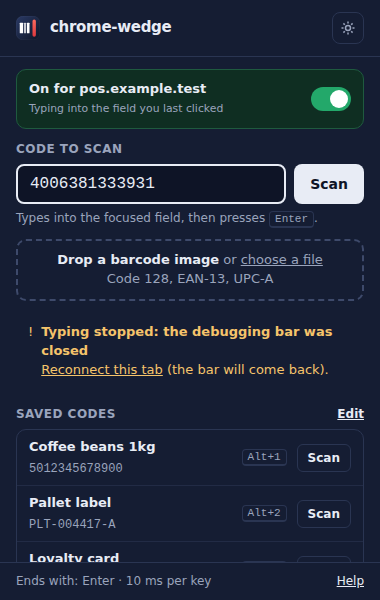
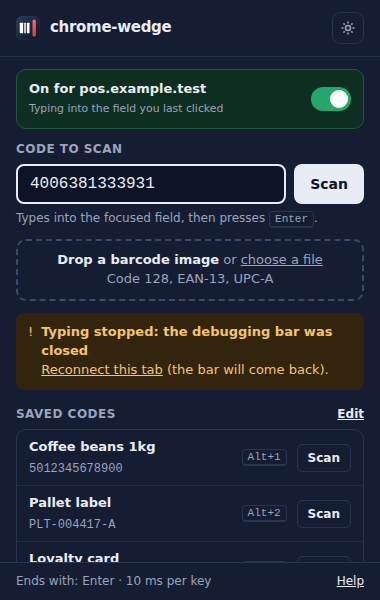
design: S01 no-field state: on a site the user has switched on, when no editable

Changed region(s): [[0.0289, 0.51, 0.9553, 0.66]]

diff --git a/design/system.md b/design/system.md
@@ -1,7 +1,7 @@
 # chrome-wedge — System design
 
 ## Overview
-chrome-wedge is a free Chrome extension for developers and testers who work on barcode-driven web apps such as point of sale, warehouse and inventory systems. Type a code or drop a barcode image, and it arrives in the field you clicked as real keystrokes followed by Enter, just like a hardware barcode scanner. You switch it on per site, it types only into the focused field of that tab, and it never types into password fields. Save the codes you use often and send them with one click or a keyboard shortcut.
+chrome-wedge is a free Chrome extension for developers and testers who work on barcode-driven web apps such as point of sale, warehouse and inventory systems. Type a code or drop a barcode image, and it arrives in the field you clicked as real keystrokes followed by Enter, just like a hardware barcode scanner. You switch it on per site, it types only into that tab (the focused field, or the page itself when nothing is focused), and it never types into password fields. Save the codes you use often and send them with one click or a keyboard shortcut.
 
 ## Stack
 | Layer | Choice | Reason |
@@ -29,12 +29,12 @@ Permissions: `debugger`, `storage`, `activeTab`. No host permissions and no cont
   - `hosts.ts`: normalise and validate `host[:port]`, match a URL against allowed sites.
   - `keymap.ts`: one character → CDP key event parameters (`key`, `code`, `windowsVirtualKeyCode`, `text`, shift modifier) for printable ASCII; other characters are sent with `key`/`text` only. Enter and Tab keys.
   - `scanPlan.ts`: prefix + value + suffix + key delay → ordered list of key events and waits.
-  - `focusProbe.ts`: a function that runs in the page (serialised with `Function.prototype.toString`) and reports the focused element: `editable` (with label from `<label>`, `aria-label`, `placeholder`, else "the focused field"), `password`, or `none`. Descends into same-origin iframes and shadow roots; a focused cross-origin iframe reports `none`.
+  - `focusProbe.ts`: a function that runs in the page (serialised with `Function.prototype.toString`) and reports the focused element: `editable` (with label from `<label>`, `aria-label`, `placeholder`, else "the focused field"), `password`, `none` (nothing editable focused: the scan goes to `document.body`), or `unreachable` (focus is inside a cross-origin iframe). Descends into same-origin iframes and shadow roots.
   - `decode.ts`: RGBA pixels → `{format, value}` or `unreadable`; tries the default format alone first, then all three.
   - `messages.ts`: typed popup ↔ service worker messages and scan results.
 - **`src/background/`** (service worker):
   - `session.ts`: attach/detach per tab, `Emulation.setFocusEmulationEnabled` so the page keeps its focused field while the popup is open, tab state in `chrome.storage.session`, `chrome.debugger.onDetach` (user closed the bar → state `detached`), main-frame navigation guard (navigated to a host that is not allowed → detach), allowed-site removal → detach tabs on that host.
-  - `scan.ts`: check site allowed (reads `location.host` through the session) → run focus probe → refuse/none or dispatch the scan plan → result. One scan at a time per tab.
+  - `scan.ts`: check site allowed (reads `location.host` through the session) → run focus probe → `password` refuses, `unreachable` gives no-field, `none` focuses nothing and dispatches to the page, `editable` dispatches to the field → result. One scan at a time per tab.
   - `shortcuts.ts`: on attach, installs a capture-phase `keydown` listener for Alt+1..Alt+9 (matched by `event.code`, so it works on macOS where Alt+digit types a symbol) via `Runtime.addBinding` + `Page.addScriptToEvaluateOnNewDocument`; `Runtime.bindingCalled` → scan the saved code with that shortcut. Only exists on switched-on tabs.
   - `install.ts`: opens S02 on install.
 - **`src/popup/`** (S01): site switch, code input, Scan, drop zone and file picker, saved codes, result line, footer. Converts a dropped image to pixels on a canvas and calls `decode.ts`.
@@ -61,15 +61,15 @@ Scan values: 1–256 characters, no line breaks (the suffix provides the Enter).
 
 `chrome.storage.session` key `tabs`: `{ [tabId]: { host: string; state: "attached" | "detached"; lastResult?: ScanResult } }`.
 
-`ScanResult`: `{ kind: "sent", value, keys, suffix, fieldLabel } | { kind: "refused" } | { kind: "no-field" } | { kind: "site-off" } | { kind: "detached" } | { kind: "error", message }`. These map one to one to the S01 states.
+`ScanResult`: `{ kind: "sent", value, keys, suffix, fieldLabel: string | null } | { kind: "refused" } | { kind: "no-field" } | { kind: "site-off" } | { kind: "detached" } | { kind: "error", message }`. These map one to one to the S01 states; a `null` `fieldLabel` means the scan went to the page (S01 page).
 
 ## Key flows
 1. **Switch on and scan (typed)**
    1. Popup opens; `activeTab` gives the tab's URL; popup asks the worker for the tab state and shows S01 (site off, on, or detached).
    2. Switch on → worker adds the host to `allowedSites`, `chrome.debugger.attach({tabId}, "1.3")`, enables focus emulation, installs the shortcut listener. Chrome shows its bar. If `firstRunDone` is false, S02 opens in a new tab.
    3. User clicks a field on the page, reopens the popup, types a code, presses Enter.
-   4. Worker: tab attached and `location.host` allowed? → focus probe → `password` gives *refused*, `none` gives *no-field* → otherwise for each key: `keyDown` (with `text`) then `keyUp`, waiting `keyDelayMs` between keys, then the suffix key.
-   5. Result is stored on the tab and returned; S01 shows "Scanned <code>: N keys + Enter into "<label>"".
+   4. Worker: tab attached and `location.host` allowed? → focus probe → `password` gives *refused*, `unreachable` (cross-origin iframe) gives *no-field* → otherwise (`editable`, or `none`, where keys land on `document.body` and bubble to `document` and `window`) for each key: `keyDown` (with `text`) then `keyUp`, waiting `keyDelayMs` between keys, then the suffix key.
+   5. Result is stored on the tab and returned; S01 shows "Scanned <code>: N keys + Enter into "<label>"", or "… into the page (no focused field)" when nothing was focused.
 2. **Image scan**: drop or pick a PNG/JPEG/WebP → `createImageBitmap` → canvas → pixels → `decode.ts` with the default format first → value fills the input with the thumbnail (S01 image-decoded) or S01 unreadable. Nothing is sent until Scan, which follows flow 1 from step 4.
 3. **Saved code by shortcut**: on the switched-on tab the page listener sees Alt+N, calls the binding; the worker looks up the saved code with shortcut N and runs flow 1 from step 4. Page keys outside switched-on tabs are never observed.
 4. **Bar closed**: `onDetach` with reason `canceled_by_user` → tab state `detached` → S01 detached; Reconnect this tab re-runs the attach in flow 1 step 2.
@@ -79,11 +79,11 @@ The reference paid extension's listing could not be fetched while writing this d
 
 ## Testing approach
 - `npm run format:check` (`prettier --check .`), `npm run typecheck` (`tsc --noEmit`), `npm test` (Vitest, unit, with coverage: aim for 90% on `src/core/`).
-- `npm run build` then `npm run e2e` (Playwright, Chromium with `dist/` loaded): a fixture page under `e2e/fixtures/` records every `keydown` with `isTrusted`, `key` and the field value. Checks: typed scan arrives trusted, ending with Enter; prefix and Tab/none suffix; password field refused and unchanged; no focused field gives no-field; a site not switched on is untouched; navigation to another host detaches; Alt+1 sends saved code 1.
+- `npm run build` then `npm run e2e` (Playwright, Chromium with `dist/` loaded): a fixture page under `e2e/fixtures/` records every `keydown` with `isTrusted`, `key` and the field value. Checks: typed scan arrives trusted, ending with Enter; prefix and Tab/none suffix; password field refused and unchanged; with nothing focused, a `document` `keydown` listener receives the scan as `isTrusted` keys ending with Enter and the result says "into the page"; a field inside a cross-origin iframe gives no-field; a site not switched on is untouched; navigation to another host detaches; Alt+1 sends saved code 1.
 - Decoder fixtures: Code 128, EAN-13 and UPC-A PNGs (clean, scaled, rotated slightly, low contrast) plus non-barcode images in `test/fixtures/barcodes/`, generated once by a script with `bwip-js` (dev dependency) and committed.
 - Things the sandbox cannot check (the bar's appearance, closing it by hand) are checked by hand from the README's manual checklist.
 
 ## Open questions
 - Linux Chrome uses Alt+1..Alt+8 to switch tabs. If Chrome handles those before the page sees them, saved-code shortcuts on Linux need a second binding (Alt+Shift+1..9). The shortcuts ticket checks this and reports.
 - The name contains "Chrome", which Web Store branding rules discourage; a rename before publishing only changes strings and the wordmark.
-- Typing into a focused cross-origin iframe is not supported in this version (reported as no field).
+- Typing into a focused cross-origin iframe is not supported in this version (reported as no field). With nothing focused, scans go to the page.

diff --git a/design/ux.md b/design/ux.md
@@ -2,7 +2,7 @@
 
 ## Users and primary jobs
 Developers and QA testing barcode-driven web apps (point of sale, warehouse, inventory) without a hardware scanner.
-1. Send a code into the focused field as real keystrokes plus Enter, as a keyboard-wedge scanner would.
+1. Send a code into the focused field (or the page, when nothing is focused) as real keystrokes plus Enter, as a keyboard-wedge scanner would.
 2. Turn a barcode image (label photo, test fixture) into a scan.
 3. Re-send the same handful of test codes quickly.
 
@@ -15,11 +15,12 @@ Developers and QA testing barcode-driven web apps (point of sale, warehouse, inv
 1. **First scan**: install → S02 opens → Got it → on the test site, open S01 → switch on (site allowed, debugger attaches, Chrome's bar appears) → click the field on the page → reopen S01, type a code, Enter → result line confirms.
 2. **Image scan**: S01 → drop image → decoded value fills the input (S01 image-decoded) → Scan. Unreadable image shows S01 unreadable.
 3. **Saved code**: S01 → Scan beside a saved code, or press its shortcut on the page. Manage codes in S03.
-4. **Blocked scan**: password field focused → S01 refused; nothing focused → S01 no-field; site off → S01 site-off (controls disabled).
-5. **Bar closed**: user closes Chrome's debugging bar → S01 detached → Reconnect this tab.
-6. **Settings**: S01 gear → S03; changes save immediately.
+4. **Nothing focused**: on a switched-on site with no field focused, S01 → Scan → the keys go to the page itself, where app-wide scanner listeners pick them up → S01 page ("into the page (no focused field)").
+5. **Blocked scan**: password field focused → S01 refused; focused field inside a frame from another site → S01 no-field; site off → S01 site-off (controls disabled).
+6. **Bar closed**: user closes Chrome's debugging bar → S01 detached → Reconnect this tab.
+7. **Settings**: S01 gear → S03; changes save immediately.
 
-Rules: a scan is only sent to the focused editable element of the tab the user switched on, on an allowed site, and never to `input[type=password]`. Nothing is sent from an image until the user presses Scan.
+Rules: a scan is only sent to the tab the user switched on, on an allowed site: into the focused editable element, or, when nothing editable is focused, to the page itself (`document.body`, so keys bubble to `document` and `window`). It is never sent when `input[type=password]` is focused, and not when focus is inside a cross-origin iframe (reported as no field). Nothing is sent from an image until the user presses Scan.
 
 ## Design system
 **Theme**: dark only. Every screen (popup, welcome, settings) uses the same dark palette; it sits naturally beside Chrome's dark toolbar and keeps the red cursor as the one bright accent. Buttons are light, not red, so red never competes with the mark or reads as an error.
@@ -38,7 +39,7 @@ Rules: a scan is only sent to the focused editable element of the tab the user s
 | primary | #E8ECF5 fill, #0E1426 text (15:1); hover #FFFFFF | primary buttons |
 | focus | #FF6B5E | 2px focus ring |
 | success | #6EE0A6 on #0F2E22 (edge #1F5A3F) | sent, site on; switch on #23A86A |
-| warning | #F5C46B on #33250D | no field, detached |
+| warning | #F5C46B on #33250D | no field (cross-origin frame), detached |
 | error | #FF9A9C on #3A1619 | refused, unreadable, Remove/Delete links |
 | disabled | #6B7591 text on #2A3552 (primary button) | site off |
 

diff --git a/design/screens/S01-popup/spec.md b/design/screens/S01-popup/spec.md
@@ -19,13 +19,15 @@ size: 380x600
 - Site off (`states/site-off.html`): input, Scan and saved-code buttons disabled until the switch is on.
 - Image decoded (`states/image-decoded.html`): thumbnail, format found, value, file name.
 - Unreadable image (`states/unreadable.html`): no barcode found; suggests a sharper image; notes QR isn't supported yet.
+- Sent to the page (`states/page.html`): nothing editable is focused, so the keys go to the page itself (`document.body`; they bubble to `document` and `window`, where scanner listeners usually sit). "Scanned <code>: N keys + Enter into the page (no focused field)". Green, `role="status"`, like any sent scan.
 - Refused (`states/refused.html`): focused field is a password field; nothing sent.
-- No field (`states/no-field.html`): nothing editable is focused on the page; nothing sent.
+- No field (`states/no-field.html`): focus is inside a frame from another site (cross-origin iframe), which can't be reached; nothing sent. "Not sent: that field is in a frame from another site" / "Click a field in the page itself, then scan again."
 - Detached (`states/detached.html`): the debugging bar was closed or cancelled; "Reconnect this tab" re-attaches.
 - Loading: while typing, the Scan button reads "Typing…" and is disabled (no separate file; long codes at 10 ms take well under a second).
 
 ## Notes and open questions
 - Popup max height in Chrome is 600px, so the layout fits 380x600 with three saved codes; more codes scroll inside the list.
+- Nothing focused is a success, not a problem: many scanner-driven apps listen for keys on the whole page rather than in a field, and a hardware scanner would type into the page too. The wording "(no focused field)" still tells you where the keys went, in case you meant to click a field first.
 - The field label in the success line comes from the field's label, aria-label or placeholder; falls back to "the focused field".
 - Saved-code shortcuts must work while the page (not the popup) is focused. Whether Alt+1..9 is feasible (chrome.commands allows few defaults) is for the architecture; fallback is fewer shortcuts set in chrome://extensions/shortcuts.
 
@@ -34,3 +36,4 @@ size: 380x600
 - Header mark updated to the modernised logo (rounded bars, gradient tile, glowing cursor), as requested in review.
 - Dark theme throughout (all states), header wordmark set like the logo, header mark synced with mark.svg; requested in review.
 - Primary button changed from red to a light fill with ink text, so red stays on the logo's cursor only; requested in review.
+- Nothing focused now sends the scan to the page (new `states/page.html`); `states/no-field.html` now covers only a field inside a cross-origin frame; warning background fixed to #33250D in every state (it was an invalid colour); requested in a ticket.

diff --git a/design/guide.md b/design/guide.md
@@ -14,6 +14,7 @@
 2. Click the chrome-wedge icon. The code box is ready for typing (S01).
 3. Type the code and press Enter or **Scan**. It's typed into the field, followed by Enter, and a green line confirms what was sent (S01).
 4. The popup stays open, so you can type the next code straight away.
+5. If your app listens for scans anywhere on the page rather than in a field, you don't need to click anything: scan, and the green line says it went "into the page (no focused field)" (S01).
 
 **Scan a barcode image**
 1. Click the field on the page, then open the popup (S01).
@@ -26,7 +27,8 @@
 2. Back on your switched-on page, click the field and press the shortcut, or open the popup and press **Scan** beside the saved code (S01). If Alt and a number doesn't work on your computer, use Alt+Shift and the number instead.
 
 **If a scan doesn't go through**
-- "No field is focused": click the field on the page first, then scan again (S01).
+- The scan went "into the page" but you wanted a field: click the field first, then scan again (S01).
+- "That field is in a frame from another site": chrome-wedge can't reach fields embedded from another site; click a field in the page itself (S01).
 - A password field is focused: chrome-wedge never types into those (S01).
 - The debugging bar was closed: press **Reconnect this tab** in the popup (S01).
 - The switch is off: turn it on for this site, or add the site under "Allowed sites" (S01, S03).

diff --git a/design/screens/S02-welcome/spec.md b/design/screens/S02-welcome/spec.md
@@ -9,7 +9,7 @@ size: 1280x800
 - Headline and one paragraph on why the bar appears and that it cannot be hidden.
 - An illustration of Chrome's debugging bar above a sample app page (an "Item code" field with a scan typed in), with the warning: leaving it open is required; closing it or pressing Cancel stops scans on that tab.
 - Three steps: turn it on for a site (S01), click a field, scan.
-- Safety summary: focused field only, switched-on tab only, never password fields.
+- Safety summary: switched-on tab only, into the focused field (or the page itself if none is), never password fields.
 - **Got it**: closes the tab and marks first run done. "Change typing settings" opens S03.
 
 ## States
@@ -23,3 +23,4 @@ size: 1280x800
 - Header mark updated to the modernised logo (rounded bars, gradient tile, glowing cursor), as requested in review.
 - Dark theme throughout (all states), header wordmark set like the logo, header mark synced with mark.svg; requested in review.
 - Bar illustration: the white striped page area replaced with a dark mock page showing an "Item code" field with a typed scan; warning callout fixed (invalid background colour, odd right alignment); Got it is now the light primary button; requested in review.
+- Safety summary mentions that scans go to the page when no field is focused; requested in a ticket.

diff --git a/design/README.md b/design/README.md
@@ -8,6 +8,6 @@ Status: **draft** (UX not approved yet), **approved**, **building** (a ticket fo
 
 | ID | Screen | Status | Purpose | Tickets | Updated |
 | --- | --- | --- | --- | --- | --- |
-| S01 | [Popup](screens/S01-popup/screen.html) (+6 states) · [spec](screens/S01-popup/spec.md) | building | Send a scan (typed, dropped image or saved code) into the focused field of the current tab | T-98, T-99, T-100, T-103, T-150, T-208 | 2026-11-13 |
+| S01 | [Popup](screens/S01-popup/screen.html) (+6 states) · [spec](screens/S01-popup/spec.md) | building | Send a scan (typed, dropped image or saved code) into the focused field of the current tab | T-98, T-99, T-100, T-103, T-150, T-208, T-246, T-247 | 2026-11-13 |
 | S02 | [Welcome and debugging bar explanation](screens/S02-welcome/screen.html) · [spec](screens/S02-welcome/spec.md) | built | Explain, before the first scan, why Chrome shows a debugging bar and how to scan safely | T-98, T-101, T-149 | 2026-11-13 |
 | S03 | [Settings](screens/S03-settings/screen.html) (+1 states) · [spec](screens/S03-settings/spec.md) | built | Set how scans are typed, which sites are allowed, and the saved codes | T-97, T-98, T-100, T-102, T-103, T-150 | 2026-11-13 |
